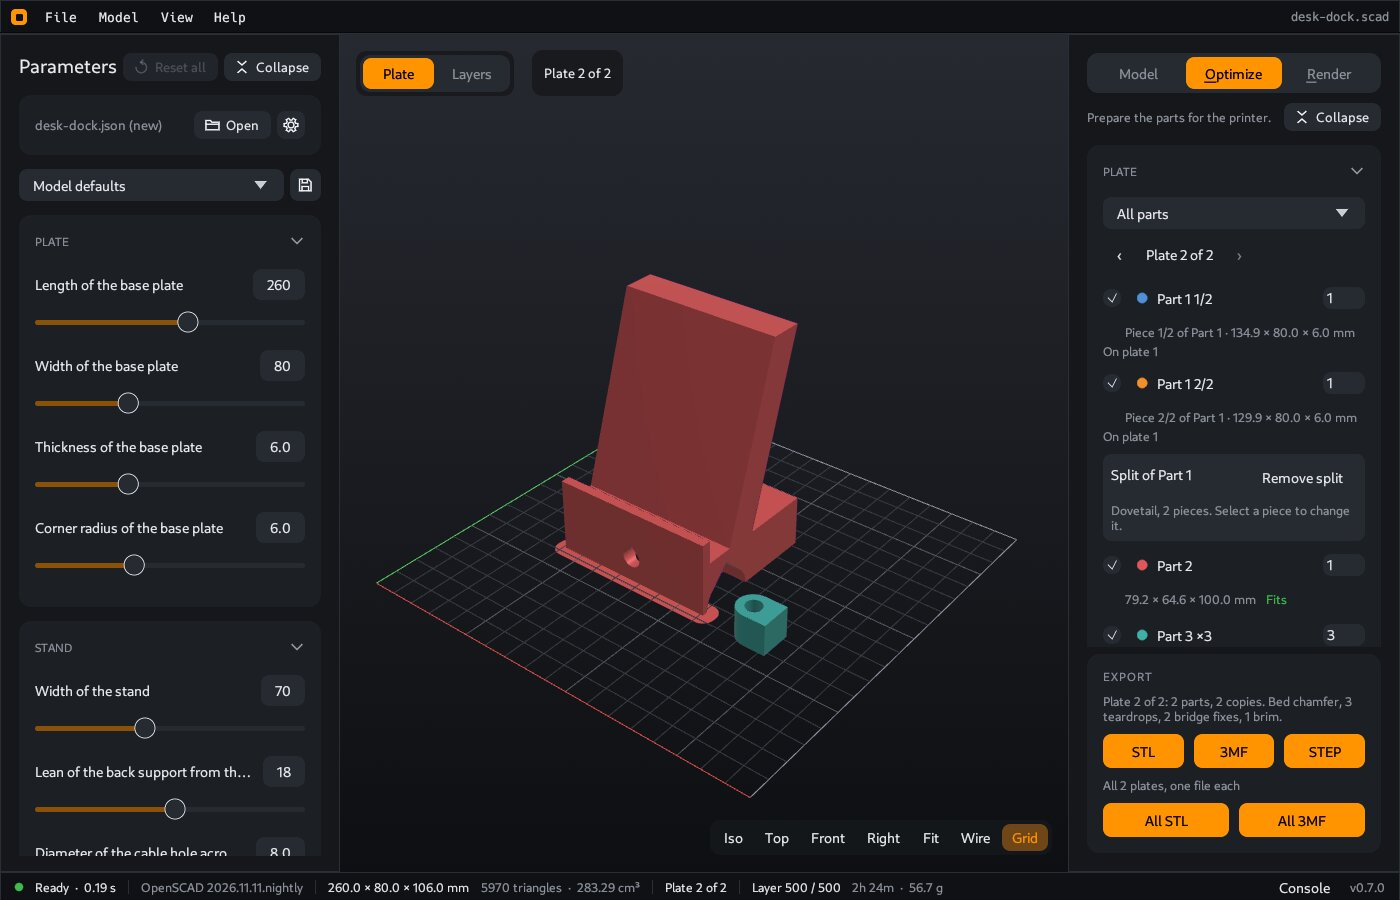
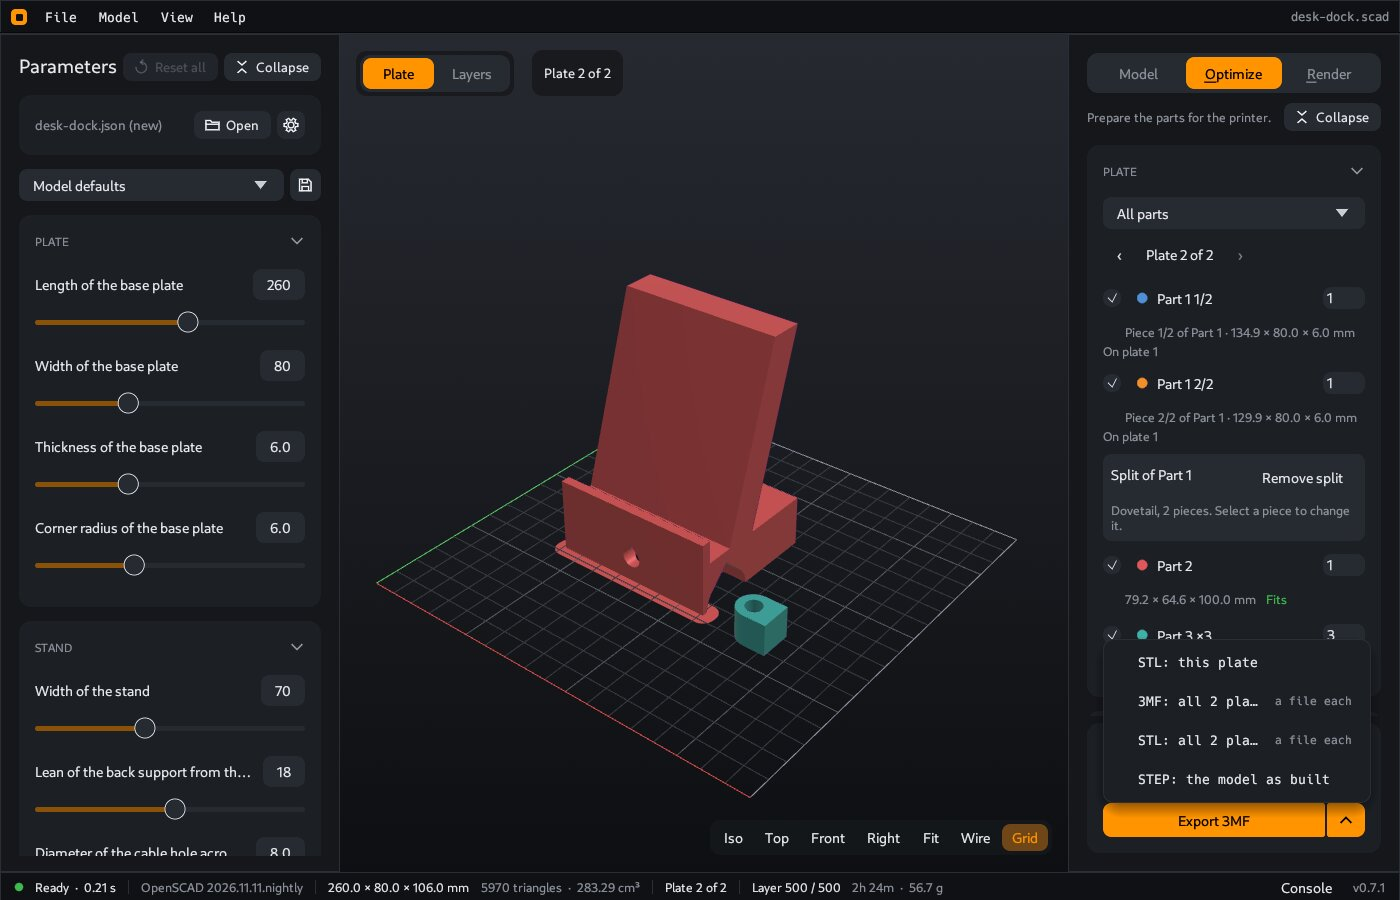
Wiki: the Export card of the Optimize tab and the Render card
- Export, Optimize, First steps, Prepare a model for printing, Problems
  and answers, Multicolor prints: the Export card is only in the Optimize
  tab. Export 3MF writes the current plate. The arrow opens the menu with
  STL of the plate, all plates, STEP and the multicolor 3MF. The Model menu
  keeps the export commands.
- Render: the Render card at the bottom of the tab shows the samples, the
  image size, the progress and Save PNG.
- guide-shots.sh opens the menu of the Export card for app-7-two-plates.
  New guide screenshots with 0.7.1.

Changed region(s): [[0.7679, 0.7467, 0.9829, 0.9333], [0.9214, 0.9644, 0.9829, 0.9956], [0.8293, 0.7156, 0.8907, 0.7467]]

diff --git a/docs/wiki/Export.md b/docs/wiki/Export.md
@@ -2,29 +2,30 @@
 
 Export writes a file that other programs can read: a slicer for your 3D printer, or a CAD program.
 
-![The Export card with two plates](https://raw.githubusercontent.com/cgeosoft/cocad/main/assets/guide/app-7-two-plates.jpg)
+![The menu of the Export card with two plates](https://raw.githubusercontent.com/cgeosoft/cocad/main/assets/guide/app-7-two-plates.jpg)
 
 ## How to export
 
-1. Find the **Export** card at the bottom of the right panel. It is in all three tabs: **Model**, **Optimize** and **Render**.
-2. Read the line above the buttons. It tells what the file will contain, for example "Plate: 4 parts, 6 copies. Bed chamfer, 3 teardrops."
-3. Click **STL**, **3MF** or **STEP**.
+1. Open the **Optimize** tab. The **Export** card is at the bottom of the right panel.
+2. Read the line above the button. It tells what the file will contain, for example "Plate: 4 parts, 6 copies. Bed chamfer, 3 teardrops."
+3. Click **Export 3MF** to write the current plate as a 3MF file. For a different file, click the arrow at the right of **Export 3MF**. A menu opens above the button. Click an item in the menu.
 4. Select a place and a name for the file. The proposed name is the model name. When a parameter set is active, the set name is added, for example `box-big.stl`. When the parts are on two or more plates, the plate number is added, for example `box-big-plate2.stl`. The dialog opens in the folder of your last export. Before your first export, it opens in the folder of the model.
 
-The **Model** menu has the same commands.
+The **Model** menu of the menu bar has the export commands too: **Export STL (binary)**, **Export 3MF** and **Export STEP (AP214, faceted)**. You can use them in all three tabs. They write the same files as **STL: this plate**, **Export 3MF** and **STEP: the model as built**.
 
 ## What is in the file
 
-| Button | What the file contains |
+| Command | What the file contains |
 |---|---|
-| **STL** | The current plate of the [Optimize](Optimize) tab: the print parts on the bed, in print position, with the print fixes that are on. |
-| **3MF** | The same plate. Each print part is one object, and each copy is one item, so your slicer shows them as separate objects. The file also contains the values of all parameters. |
-| **STEP** | The model as built, as OpenSCAD made it, for a CAD program. It has no plate and no print fixes. When the dropdown of the **Plate** card shows one part, the file contains only that part, in its place in the model. |
-| **All STL**, **All 3MF** | These buttons show when the parts are on two or more plates. They write one file for each plate, for example `box-plate1.3mf` and `box-plate2.3mf`. |
+| **Export 3MF** | The current plate of the [Optimize](Optimize) tab: the print parts on the bed, in print position, with the print fixes that are on. Each print part is one object, and each copy is one item, so your slicer shows them as separate objects. The file also contains the values of all parameters. |
+| **STL: this plate** | The same plate as an STL file. |
+| **3MF: all 2 plates**, **STL: all 2 plates** | These items show when the parts are on two or more plates. The number is the number of plates. They write one file for each plate, for example `box-plate1.3mf` and `box-plate2.3mf`. |
+| **STEP: the model as built** | The model as OpenSCAD made it, for a CAD program. It has no plate and no print fixes. When the dropdown of the **Plate** card shows one part, the file contains only that part, in its place in the model. |
+| **Multicolor 3MF: PrusaSlicer 2.9**, **Multicolor 3MF: OrcaSlicer** | These items show when the model has named parts. See [Multicolor prints](Multicolor-prints). |
 
-You do not have to open the **Optimize** tab before an export. When the plates are not ready, CoCAD prepares them first. A model that you did not change in the **Optimize** tab gives all parts in the rotation of the model, with no print fixes, on the print area from **File > Settings > Printer**.
+You do not have to open the **Optimize** tab before an export from the **Model** menu. When the plates are not ready, CoCAD prepares them first. A model that you did not change in the **Optimize** tab gives all parts in the rotation of the model, with no print fixes, on the print area from **File > Settings > Printer**.
 
-A part that is too large for the print area is on no plate, so it is not in the STL or the 3MF file. The message after the export names each part that it left out. [Split](Optimize#split-a-part-that-is-too-large) it in the **Optimize** tab, or set a larger print area. When no part is on a plate, the **STL** and **3MF** buttons are not available. **STEP** still works.
+A part that is too large for the print area is on no plate, so it is not in the STL or the 3MF file. The message after the export names each part that it left out. [Split](Optimize#split-a-part-that-is-too-large) it in the **Optimize** tab, or set a larger print area. When no part is on a plate, **Export 3MF** and the plate items of the menu are not available. Hold the mouse on **Export 3MF** to see the reason. **STEP** still works.
 
 For a print in more than one color, see [Multicolor prints](Multicolor-prints).
 

diff --git a/docs/wiki/Optimize.md b/docs/wiki/Optimize.md
@@ -1,6 +1,6 @@
 # Optimize
 
-The **Optimize** tab prepares the parts of a model for a 3D printer. It puts the parts on the bed of your printer, turns them, changes the shape where a printer has problems, and shows the print layers. The **STL** and **3MF** export write the result.
+The **Optimize** tab prepares the parts of a model for a 3D printer. It puts the parts on the bed of your printer, turns them, changes the shape where a printer has problems, and shows the print layers. The **Export** card at the bottom of the tab writes the result as a 3MF or an STL file.
 
 ![The Optimize tab with the desk dock](https://raw.githubusercontent.com/cgeosoft/cocad/main/assets/guide/app-3-fixes.jpg)
 
@@ -41,7 +41,7 @@ The Optimize tab shows no explode, no section cut and no reference parts. **Fit*
 
 ## The cards
 
-The tab has these cards, from top to bottom: **Plate**, **Orientation**, **Print fixes**, **Check**, **Layers**, **Printer** and **Print settings**. The **Export** card is below them. It is at the bottom of all tabs. See [Export](Export).
+The tab has these cards, from top to bottom: **Plate**, **Orientation**, **Print fixes**, **Check**, **Layers**, **Printer** and **Print settings**. The **Export** card is below them, at the bottom of the tab. See [Export](Export).
 
 Click the header of a card to close it or to open it. A closed card shows a short value in its header, for example the print time in the **Layers** card. **Collapse** at the top of the tab closes all cards. **Expand** opens them again. CoCAD remembers which cards are closed. The **Export** card does not close.
 
@@ -70,7 +70,7 @@ When a fix found a place that it did not change, the row shows "1 skipped". Hold
 
 CoCAD puts the parts in rows on the bed, the largest first, with a gap between them. It can turn a part by 90 degrees on the bed to fit it. This does not change how the part prints. The parts are in the center of the bed.
 
-When the parts do not fit on one plate, CoCAD fills plate 1, then plate 2, and so on. The Export card then has **All STL** and **All 3MF**, which write one file for each plate.
+When the parts do not fit on one plate, CoCAD fills plate 1, then plate 2, and so on. The menu of the **Export** card then has **3MF: all 2 plates** and **STL: all 2 plates**, with the number of plates. These items write one file for each plate. To open the menu, click the arrow at the right of **Export 3MF**.
 
 #### Split a part that is too large
 

diff --git a/docs/wiki/Render.md b/docs/wiki/Render.md
@@ -8,12 +8,19 @@ The **Render** tab makes a picture of the part that looks like a studio photo, w
 
 1. Click the **Render** tab on the right, or press `R`. Press `R` again to go back to the **Model** tab.
 2. Turn and move the view until you like it. The view dims the area outside the image frame, so you see what the photo will show.
-3. Let the view rest. The render starts. The image gets cleaner with time. The **Progress** card shows the number of samples.
-4. Click **Save PNG**. The dialog opens in the folder of your last export.
+3. Let the view rest. The render starts. The image gets cleaner with time. The **Render** card at the bottom of the tab shows the number of samples.
+4. Click **Save PNG** in the **Render** card. The dialog opens in the folder of your last export.
 
 When you move the view or change a setting, the render starts again.
 
 You can save at any time. **Save PNG** writes the image at its full size, with the quality that it has at that moment.
+
+The **Render** card at the bottom of the tab does not close. It shows:
+
+- The number of samples that are done, the number of samples that you set, and the size of the image in pixels.
+- A bar that shows the progress.
+- The time of the render. At the end, the card shows "Done in" and the time. Before the render starts, it shows "Waiting for the view to rest".
+- **Save PNG**.
 
 ## Settings
 
@@ -36,7 +43,7 @@ When [Part colors](Parts#part-colors) is on, each part has its own color in plac
 - **Resolution**: the size of the image in pixels. The presets are 720p, 1080p, 1440p, 4K, site preview 4:3 (1600 × 1200), square, portrait 4:5 and story 9:16. You can also type the width and the height.
 - **Swap** changes between landscape and portrait.
 
-The cards can close and open, as in the other tabs. The **Export** card is at the bottom. See [Export](Export).
+The other cards of the tab can close and open, as in the other tabs.
 
 ## Parts in the photo
 

diff --git a/docs/wiki/Prepare-a-model-for-printing.md b/docs/wiki/Prepare-a-model-for-printing.md
@@ -172,7 +172,7 @@ A printer with a smaller print area needs more plates. For example, with the **P
 
 ![Plate 2 of 2](https://raw.githubusercontent.com/cgeosoft/cocad/main/assets/guide/app-7-two-plates.jpg)
 
-Use the arrows in the **Plate** card to see the other plate. The **Export** card shows **All STL** and **All 3MF**, which write one file for each plate.
+Use the arrows in the **Plate** card to see the other plate. Click the arrow at the right of **Export 3MF** in the **Export** card. The menu has **3MF: all 2 plates** and **STL: all 2 plates**, which write one file for each plate.
 
 ## 8. Look at the layers
 
@@ -184,10 +184,10 @@ The **Layers** card shows a rough estimate of the print time, the weight and the
 
 ## 9. Export the plate
 
-In the **Export** card, click **3MF** or **STL**.
+In the **Export** card at the bottom of the tab, click **Export 3MF**. For an STL file, click the arrow at the right of **Export 3MF**, then **STL: this plate**.
 
-- The **3MF** file has one object for each print part, and one item for each copy. Your slicer shows the parts as separate objects, in the positions of the plate.
-- With two or more plates, **All 3MF** writes one file for each plate, for example `desk-dock-plate1.3mf` and `desk-dock-plate2.3mf`.
+- The 3MF file has one object for each print part, and one item for each copy. Your slicer shows the parts as separate objects, in the positions of the plate.
+- With two or more plates, **3MF: all 2 plates** in the same menu writes one file for each plate, for example `desk-dock-plate1.3mf` and `desk-dock-plate2.3mf`.
 
 In your slicer, set the elephant foot compensation to 0, because the bed chamfer is on.
 

diff --git a/docs/wiki/Problems-and-answers.md b/docs/wiki/Problems-and-answers.md
@@ -78,7 +78,7 @@ CoCAD cuts only with parallel planes across one axis. Turn the part with a custo
 The cut face is too small for the pins or the dovetail tabs, so that cut is a flat cut. Glue the pieces, or move the cut with its number field to a place with more material.
 
 **My STL does not contain the whole model.**
-The STL and 3MF export write the current plate of the Optimize tab. Parts with the `%` mark, parts that you turned off, and parts that are too large are not on the plate. When the parts are on two or more plates, use **All STL** or **All 3MF**. For the model as OpenSCAD built it, use **STEP**, or `cocad export --as-built` on the [command line](Command-line).
+The STL and 3MF export write the current plate of the Optimize tab. Parts with the `%` mark, parts that you turned off, and parts that are too large are not on the plate. When the parts are on two or more plates, click the arrow at the right of **Export 3MF**, then **3MF: all 2 plates** or **STL: all 2 plates**. For the model as OpenSCAD built it, use **STEP: the model as built** in the same menu, or `cocad export --as-built` on the [command line](Command-line).
 
 **I use the Bed chamfer. Must I change a setting in my slicer?**
 Yes. With the **Bed chamfer** on, set the elephant foot compensation of your slicer to 0. In PrusaSlicer and OrcaSlicer, the setting is "Elephant foot compensation". In Cura, it is "Initial Layer Horizontal Expansion". Without this, the bed edges get two corrections.

diff --git a/docs/wiki/First-steps.md b/docs/wiki/First-steps.md
@@ -30,7 +30,7 @@ If you have no model, start with an example. **File > Examples > Gear** is a goo
 | Menu bar | Top | All commands: **File**, **Model**, **View** and **Help** |
 | Parameters panel | Left | The values that you can change. See [Change the parameters](Parameters). |
 | 3D view | Middle | The model |
-| Sidebar | Right | Three tabs: **Model**, **Optimize** and **Render**, and the **Export** card at the bottom |
+| Sidebar | Right | Three tabs: **Model**, **Optimize** and **Render** |
 | Status bar | Bottom | The state of the model, its size and the **Console** button |
 
 The three tabs of the sidebar change what the 3D view shows:
@@ -41,7 +41,7 @@ The three tabs of the sidebar change what the 3D view shows:
 
 The tab names show the key letter underlined. Press the same key again to go back to the **Model** tab.
 
-Each tab has cards. Click the header of a card to close it or to open it. **Collapse** at the top of the tab closes all cards, and **Expand** opens them again. The **Export** card stays at the bottom of all tabs. See [Export](Export).
+Each tab has cards. Click the header of a card to close it or to open it. **Collapse** at the top of the tab closes all cards, and **Expand** opens them again. The **Optimize** tab has the **Export** card at the bottom, and the **Render** tab has the **Render** card at the bottom. These two cards do not close. The **Model** menu also has the export commands. See [Export](Export).
 
 ## Move the view
 

diff --git a/docs/wiki/Multicolor-prints.md b/docs/wiki/Multicolor-prints.md
@@ -16,7 +16,7 @@ To try it, open **File > Examples > Multicolor badge**.
 
 ## How to export
 
-When the model has named parts, the **Export** card shows a **Multicolor 3MF** row with two buttons: **PrusaSlicer 2.9** and **OrcaSlicer**. The **Model** menu has the same exports:
+When the model has named parts, the menu of the **Export** card in the **Optimize** tab has two more items: **Multicolor 3MF: PrusaSlicer 2.9** and **Multicolor 3MF: OrcaSlicer**. To open the menu, click the arrow at the right of **Export 3MF**. The **Model** menu has the same exports:
 
 - **Export multicolor 3MF for PrusaSlicer 2.9**
 - **Export multicolor 3MF for OrcaSlicer**
@@ -27,7 +27,7 @@ The multicolor 3MF contains all parts of the model as built. It does not use the
 
 ## In the Optimize tab
 
-The parts of the `cocad_part` list are the colors of one object. In the [Optimize](Optimize) tab, they stay together as one print part with the name of the model. The orientation, the print fixes and the plate apply to this object as a whole. The **STL** and **3MF** buttons write this object without colors.
+The parts of the `cocad_part` list are the colors of one object. In the [Optimize](Optimize) tab, they stay together as one print part with the name of the model. The orientation, the print fixes and the plate apply to this object as a whole. **Export 3MF** and **STL: this plate** write this object without colors.
 
 ## In the slicer
 
